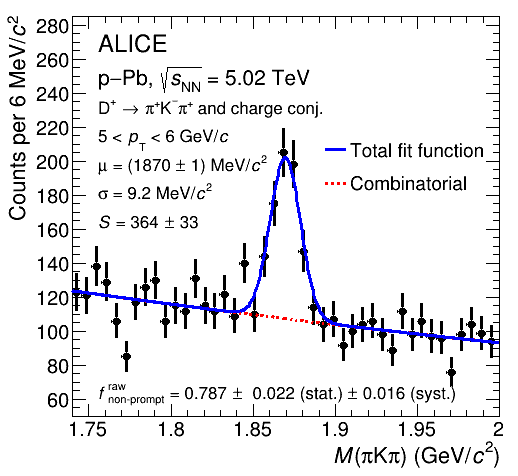
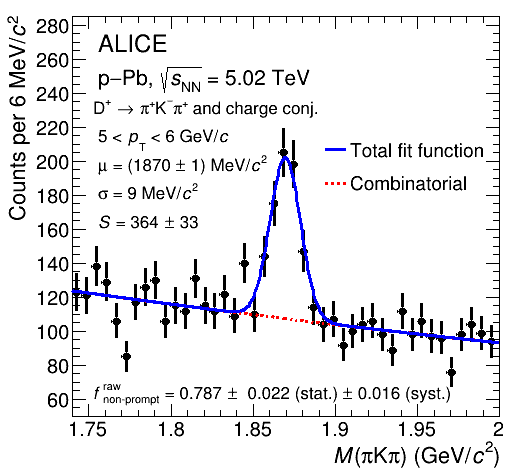
Apply IRC comments to invariant mass plot macro

diff --git a/Plots/plot_invmass_fit_dzero_dplus_lambdac.py b/Plots/plot_invmass_fit_dzero_dplus_lambdac.py
@@ -152,8 +152,8 @@ def draw_info(lat_label, particle):
         info = "#Lambda_{c}^{+}  #rightarrow pK^{0}_{S} and charge conj."
         fnonprompt = "#it{f}_{ non-prompt}^{ raw} = 0.549 #pm  0.138 (stat.) #pm 0.055 (syst.)"
 
-    lat_label.DrawLatex(0.19, 0.76, info)
-    lat_label.DrawLatex(0.19, 0.16, fnonprompt)
+    lat_label.DrawLatex(0.18, 0.76, info)
+    lat_label.DrawLatex(0.18, 0.16, fnonprompt)
 
 
 def save_canvas(canvas, particle, pt_mins, pt_maxs, i_pt):
@@ -239,7 +239,7 @@ def main(particle, i_pt, cfg, batch):
     lat_label.SetTextColor(kBlack)
 
     str_mu = f"#mu = ({mean:.0f} #pm {err_mean:.0f}) MeV/#it{{c}}^{{2}}"
-    str_sigma = f"#sigma = {sigma:.1f} MeV/#it{{c}}^{{2}}"
+    str_sigma = f"#sigma = {sigma:.0f} MeV/#it{{c}}^{{2}}"
     str_sig = f'#it{{S}} = {signal:.0f} #pm {err_signal:.0f}'
 
     legend = TLegend(0.62, 0.58, 0.85, 0.72)
